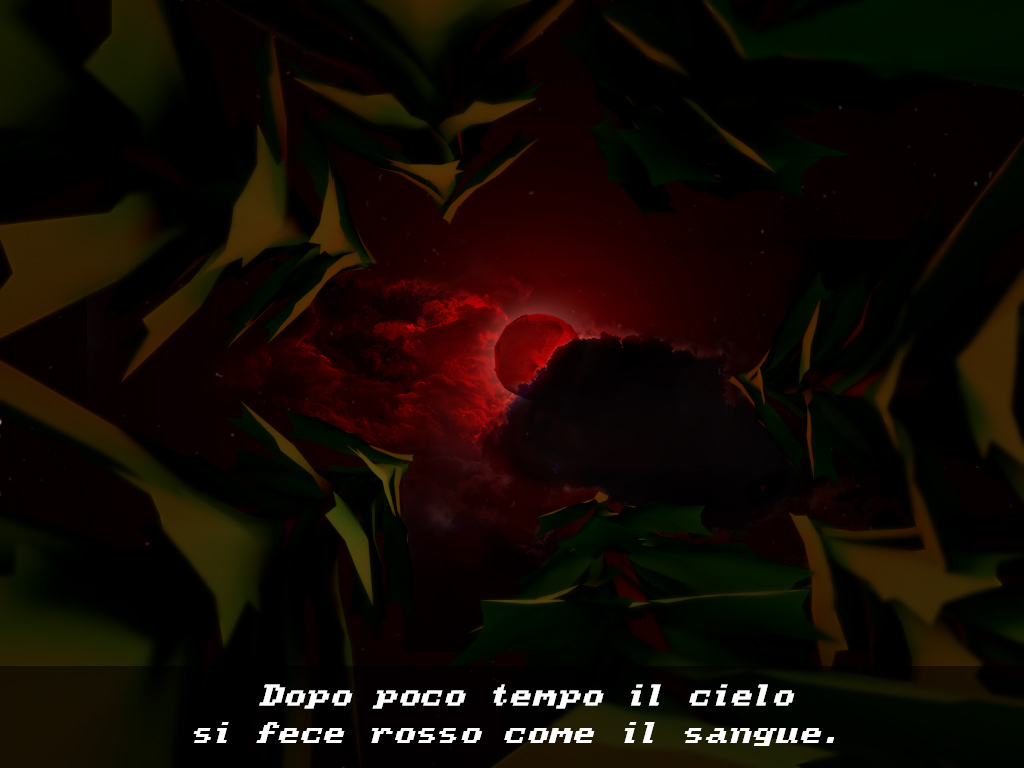
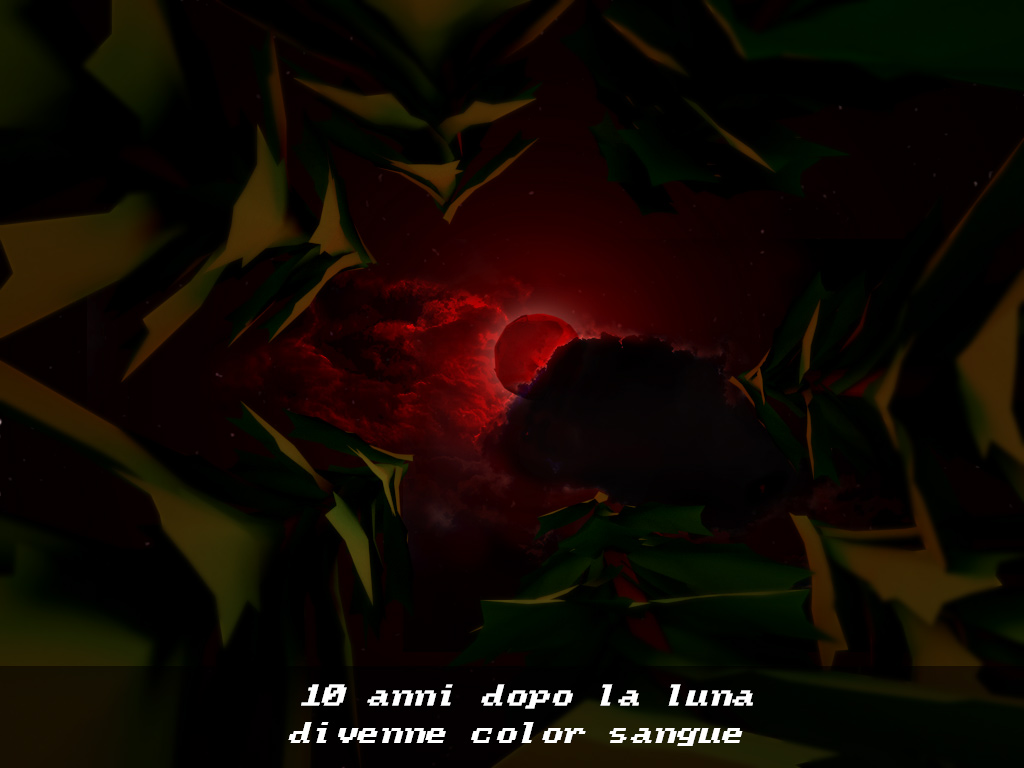
nero

Changed region(s): [[0.25, 0.875, 0.8125, 0.9688], [0.1875, 0.9375, 0.2188, 0.9688]]

diff --git a/js/Nero.js b/js/Nero.js
@@ -1,0 +1,24 @@
+var Nero = {
+
+  preload: function() {
+    game.load.crossOrigin = 'anonymous';
+    game.load.image('scena0', 'assets/scene/nero.jpg');
+  },
+
+  create: function() {
+    scena0 = game.add.sprite(0, 0, 'scena0');
+    scena0.inputEnabled = true;
+    scena0.events.onInputUp.add(imageClick0);
+  },
+
+  update: function() {
+
+  },
+
+};
+
+function imageClick0() {
+    this.game.state.start('ScenaBloodmoon');
+}
+
+game.state.add('Nero', Nero);

diff --git a/index.html b/index.html
@@ -22,6 +22,7 @@
       <script src="js\World.js"></script>
       <script src="js\Player.js"></script>
       <script src="js\Start.js"></script>
+      <script src="js\Nero.js"></script>
       <script src="js\Bloodmoon.js"></script>
       <script src="js\Ritorno_lupi.js"></script>
       <script src="js\Rapimento.js"></script>

diff --git a/js/Start.js b/js/Start.js
@@ -111,7 +111,7 @@ var GameStart = {
 function imageClick() {
   spawnX = 2*m;
   spawnY = 54*m;
-  this.game.state.start('ScenaBloodmoon');
+  this.game.state.start('Nero');
 }
 
 function imageClickCR() {
